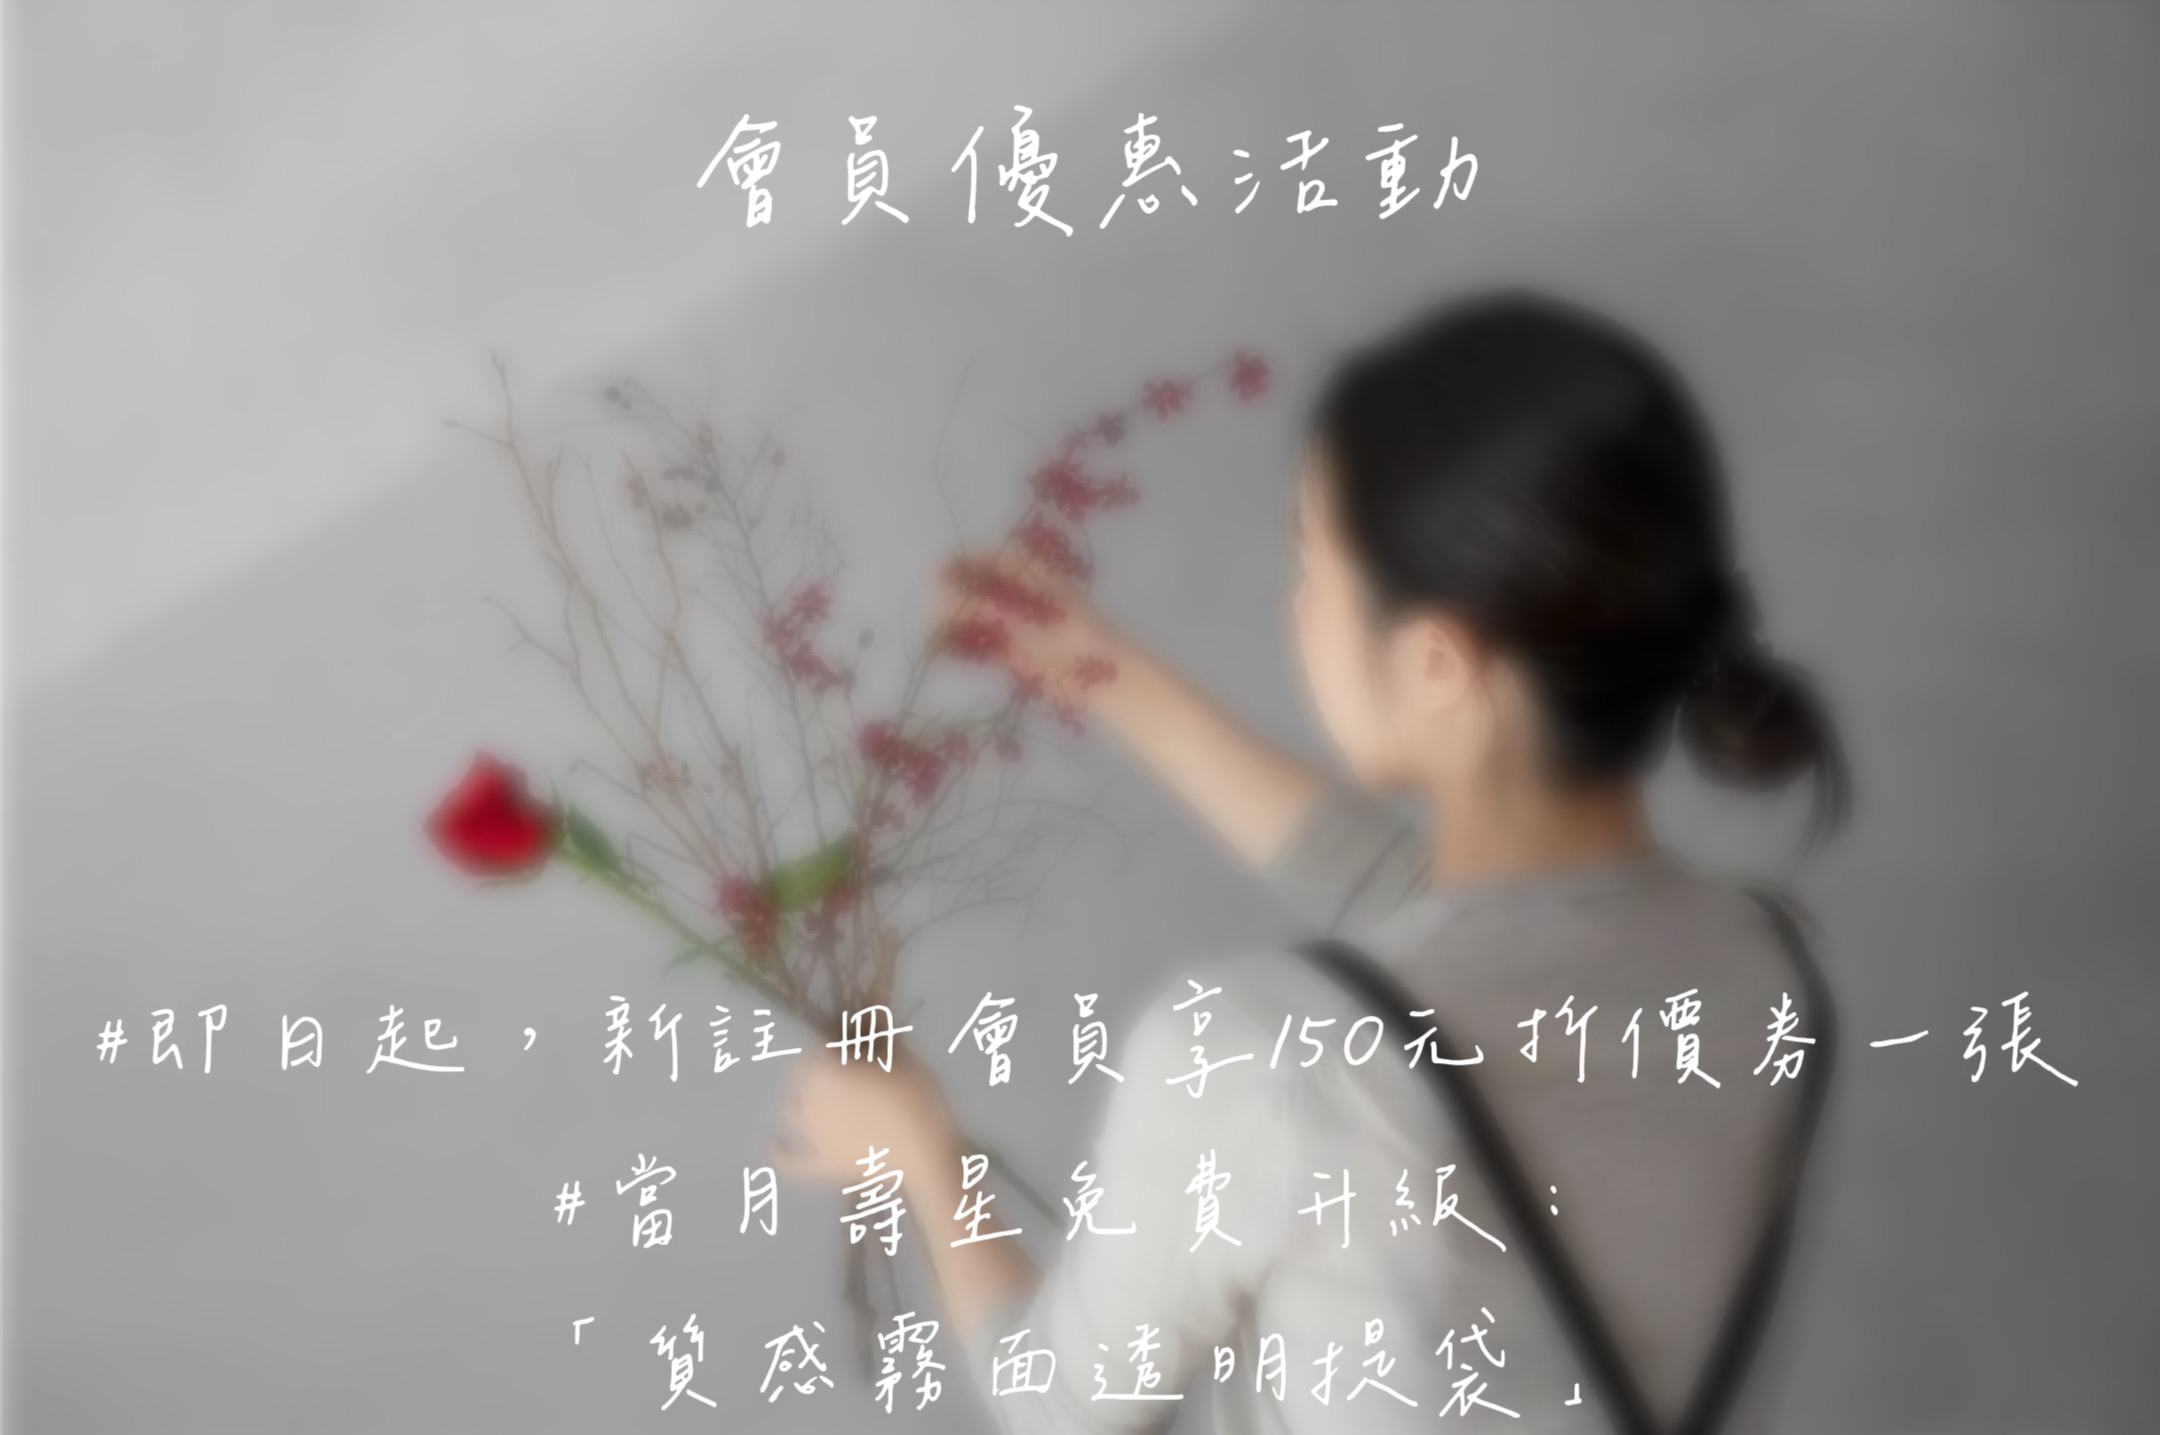
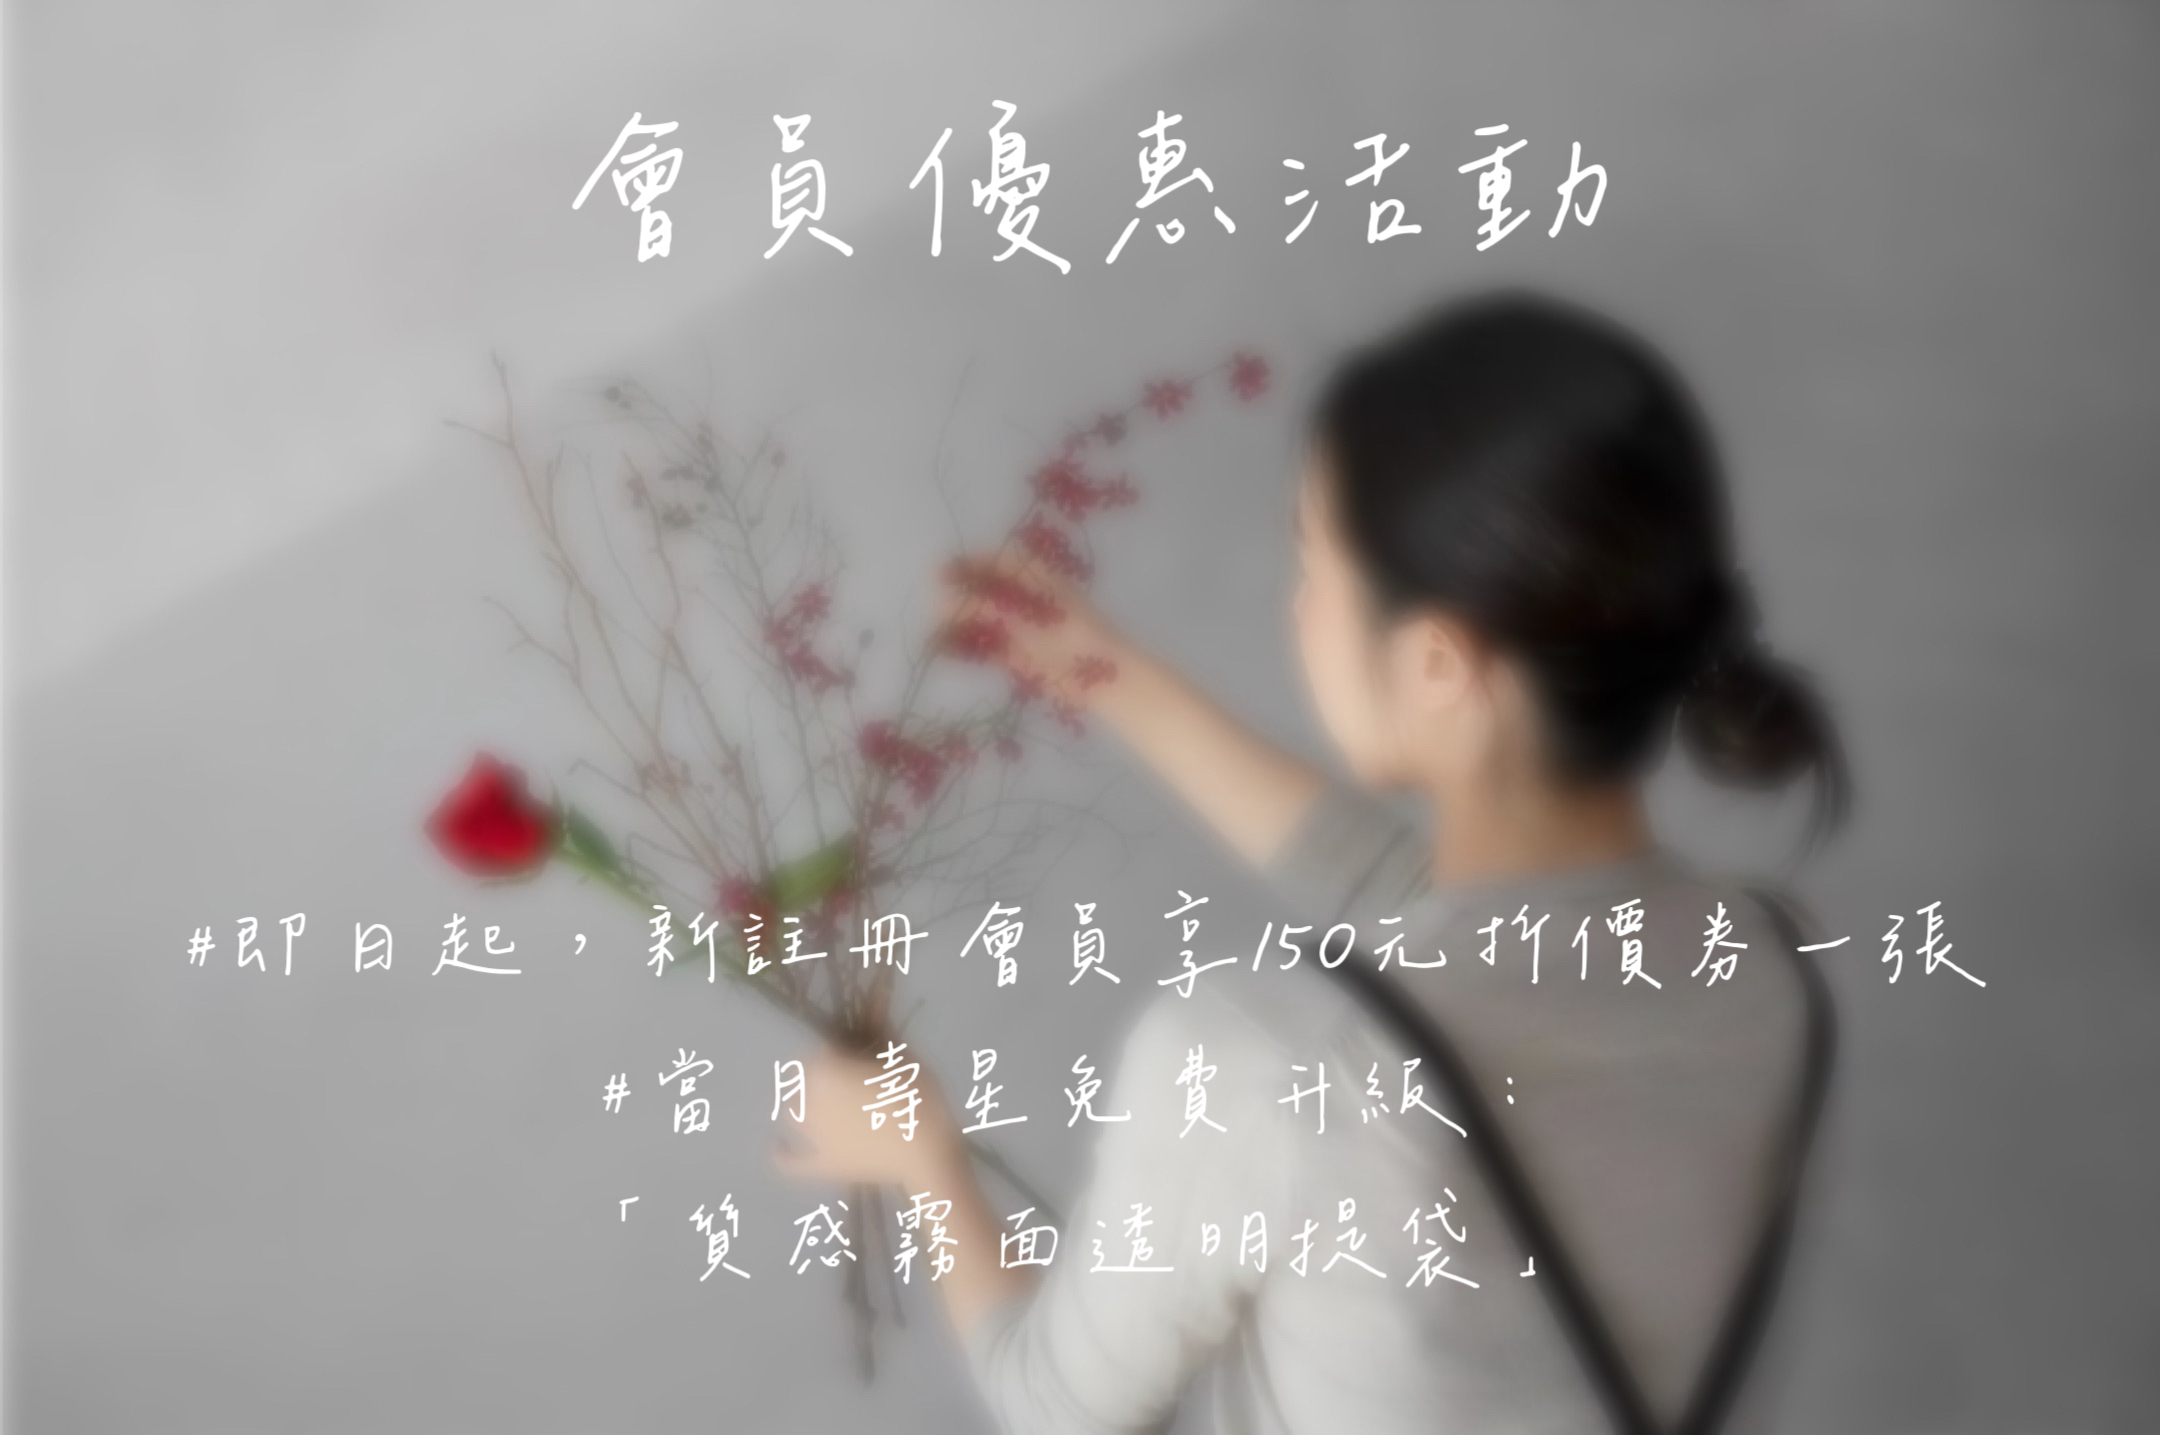
完成!!

diff --git a/style.css b/style.css
@@ -175,7 +175,7 @@ body {
 /* 心理測驗 */
 .quiz-intro {
     display: flex; padding: 30px 20px; gap: 40px; align-items: center;
-    max-width: 1100px; margin: 20px auto;
+    max-width: 1100px; margin: 20px auto;position: relative;
 }
 .quiz-card {
     flex: 0 0 40%;
@@ -188,7 +188,7 @@ body {
 
 .quiz-card img { 
     display: block; /* 移除底部間隙 */
-    width: 100%; 
+    width: 90%; 
     height: auto; 
     border-radius: 3px;
     transition: transform 0.8s ease;
@@ -200,8 +200,10 @@ body {
 
 /* 文字區塊：確保按鈕對齊文字 */
 .quiz-text { 
-    flex: 1; 
-    text-align: left; 
+    flex: 1;
+    display: flex;
+    flex-direction: column;
+    text-align: left;
     color:#705844;
 }
 
@@ -222,6 +224,9 @@ body {
     cursor: pointer;
     transition: all 0.4s ease;
     letter-spacing: 2px;
+    position: absolute;
+    right: 125px;
+    bottom: 30px;
 }
 
 /* 加入一點「進入」的過渡回饋 */
@@ -407,18 +412,18 @@ body {
 .about-logo {
     width: 200px; 
     height: auto;
-    margin-bottom: 5px; 
+    margin-bottom: 0px; 
     object-fit: contain;
     margin-left: 100px;
 }
 
 .about-link { 
-    font-size: 0.5rem; 
+    font-size: 0.4rem; 
     text-decoration: underline; 
     font-family:"Cactus Classical Serif", serif;
     color: #705844; 
     display: block; 
-    margin-bottom: 10px; 
+    margin-bottom: 3px; 
     margin-left: 150px;
     
 }
@@ -438,9 +443,9 @@ body {
 
 .contact-top { display: flex; gap: 40px; max-width: 1000px; margin: 0 auto 40px; align-items: flex-start; }
 .about-us { flex: 1; }
-.about-link { font-size: 1.4rem; text-decoration: underline; color: #705844; display: block; margin-bottom: 10px; }
+.about-link { font-size: 1.3rem; text-decoration: underline; color: #705844; display: block; margin-bottom: 10px; }
 .map-box { flex: 1; border: 1px solid #c0a080; aspect-ratio: 1.5; background: #eeebe2; }
-.map-placeholder { height: 90%; display: flex; justify-content: center; align-items: center; background: #eee; font-size: 0.9rem; }
+.map-placeholder { height: 100%; display: flex; justify-content: center; align-items: center; background: #eee; font-size: 0.9rem; }
 
 .login-container {
     background-color: rgba(112, 88, 68, 0.9);

diff --git a/quiz/style.css b/quiz/style.css
@@ -7,6 +7,7 @@
 
 body {
     background-color: #EEEBE2; 
+    background-image: url('https://www.transparenttextures.com/patterns/natural-paper.png');
     font-family: 'Noto Serif TC', serif;
     display: flex;
     justify-content: center;
@@ -19,7 +20,7 @@ body {
 .test-container {
     width: 100%;
     max-width: 500px;
-    height: 100vh;      
+    height: 80vh;      
     background: #877566; 
     display: flex;
     flex-direction: column;
@@ -154,7 +155,7 @@ body {
 .result-page {
     width: 100%; height: 100%;
     background-color: #877566; color: #EEEBE2;
-    padding: 30px 25px;
+    padding: 50px 25px;
     display: flex;
     flex-direction: column;
     justify-content: flex-start;

diff --git a/series/style.css b/series/style.css
@@ -18,10 +18,7 @@ body {
     display: flex;
     justify-content: space-between;
     align-items: center;
-    padding: 20px 25px;
-    width: 100%;
-    background-color: transparent;
-
+    padding: 20px 30px;
     .nav-left {
         display: flex;
         align-items: center;
@@ -72,7 +69,7 @@ body {
 /* --- 3. 容器佈局 --- */
 .category-wrapper {
     max-width: 1100px;
-    margin: 0 auto 25px auto;
+    margin: 15px auto 25px auto;
     padding: 0px 5%;
 }
 
